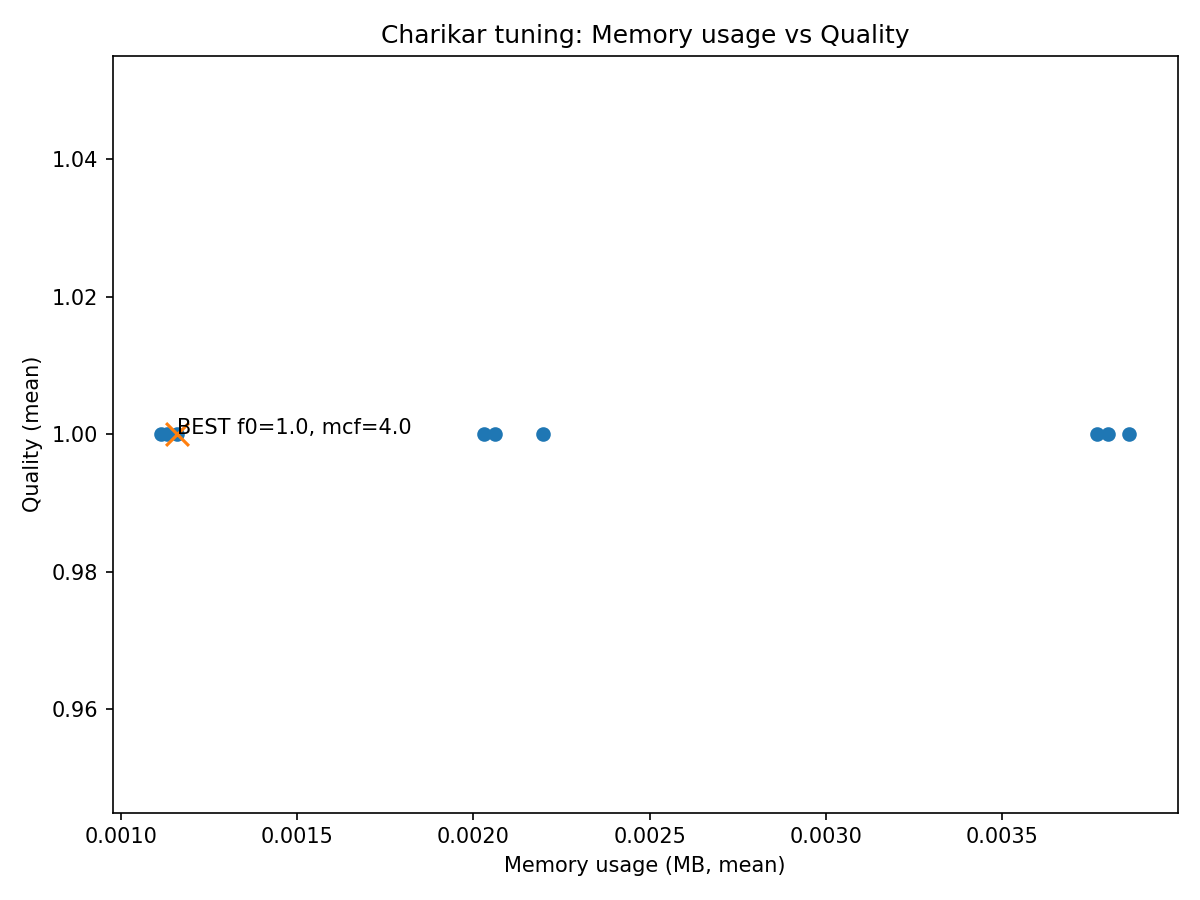
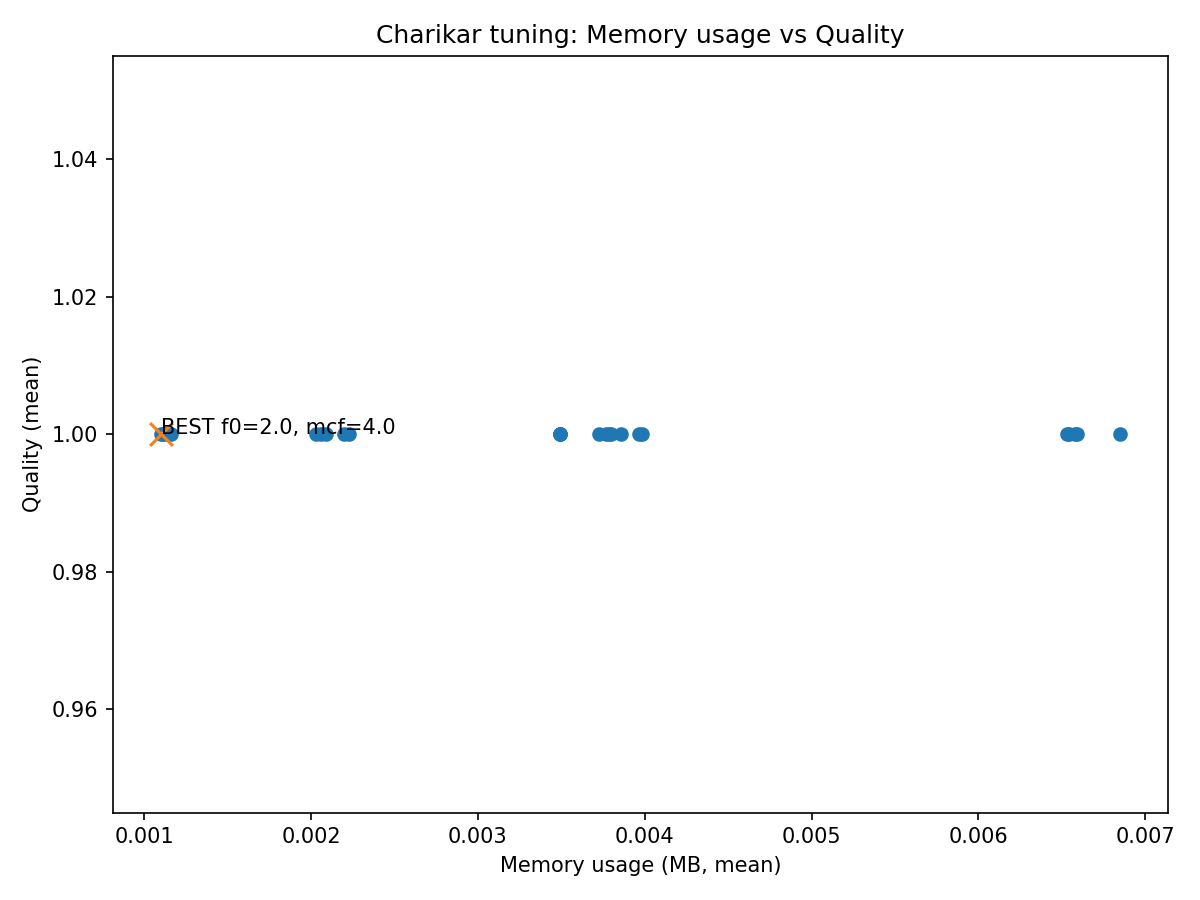
charikar update

diff --git a/charikar_tuned.py b/charikar_tuned.py
@@ -187,8 +187,8 @@ def main():
         k=8,
         output_dir="output/charikar_blobs",
         labels=y,
-        init_facility_values=(0.25, 0.5, 1.0),
-        max_centers_factor_values=(4.0, 8.0, 12.0),
+        init_facility_values=(0.25, 0.5, 1.0, 2.0, 4.0),
+        max_centers_factor_values=(4.0, 8.0, 12.0, 16.0, 24.0),
         seeds=(42, 77, 211),
         quality_weight=0.5,
         runtime_weight=0.25,
